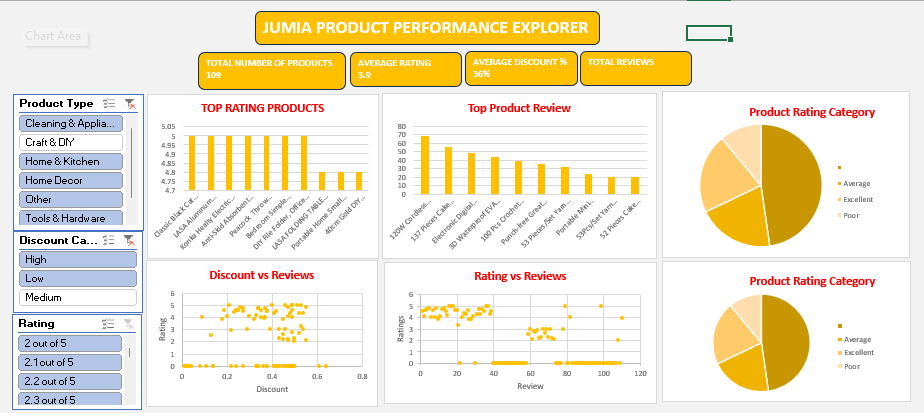
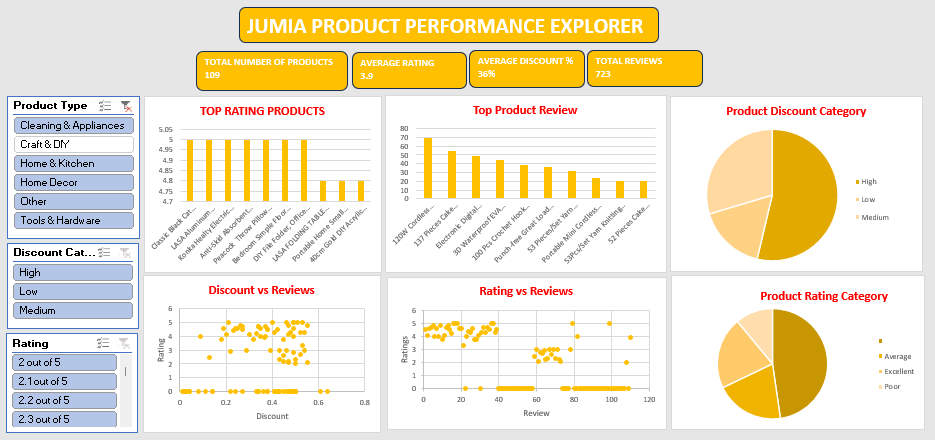
Update dashboard, README and screenshot

Changed region(s): [[0.0, 0.0, 1.0, 1.0], [0.7576, 0.6683, 0.9697, 0.9588], [0.5455, 0.9298, 0.6061, 0.9588]]

diff --git a/README.md b/README.md
@@ -5,7 +5,7 @@ Dashboard Preview
 📊 JUMIA PRODUCT PERFORMANCE EXPLORER
 E-Commerce Product Insights (Jumia Dataset)
 
-📌 Overview
+📌 Overview:
 This project is an Excel-based dashboard analyzing Jumia product data to generate insights on product performance, ratings, reviews, and discounts.
 
 🎯 Objectives: